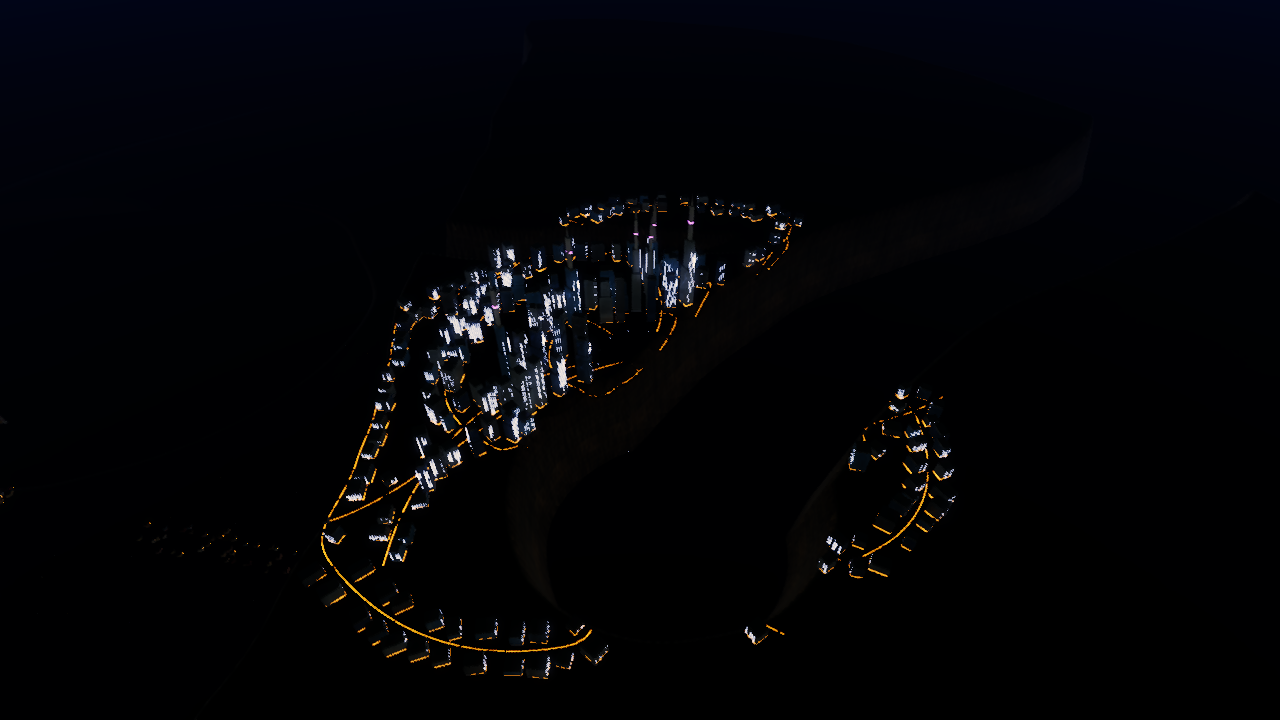
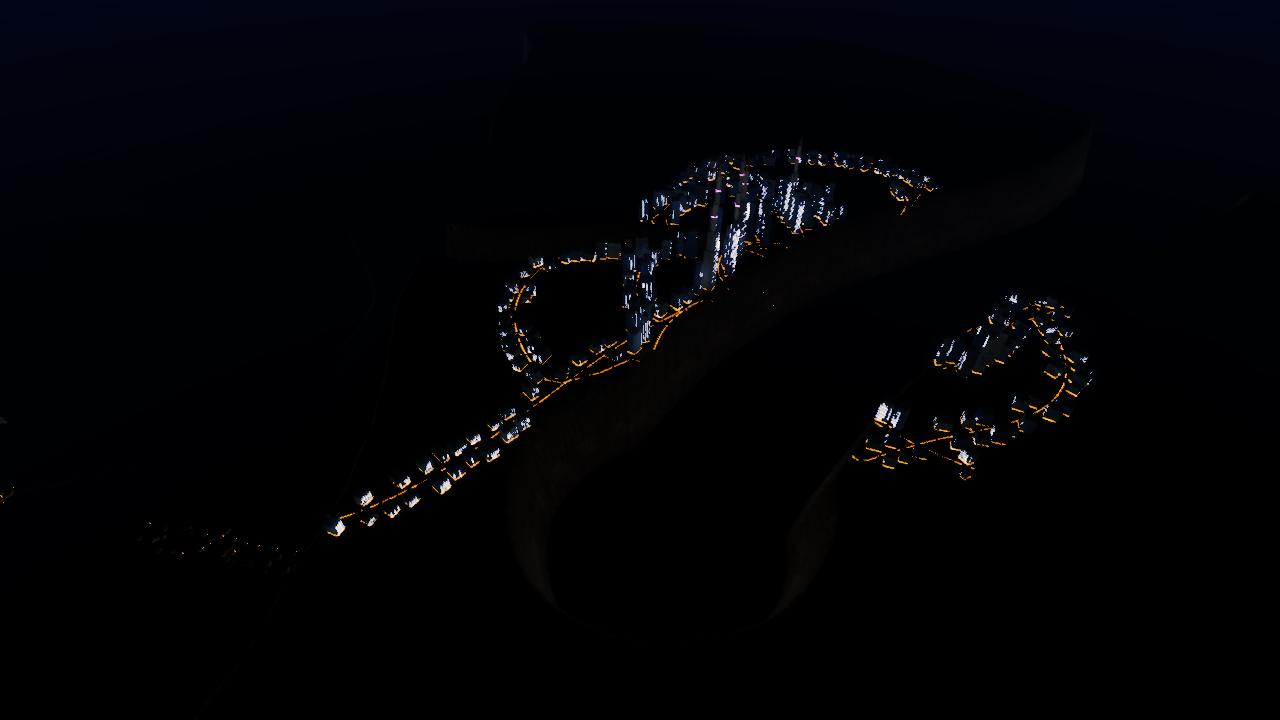
[sibling] F1 P5: camera bookmarks (5=postcard 6=crown 7=fissure 8=approach) + THE POSTCARD capture

diff --git a/app/world_hosts/host_echotropolis.cpp b/app/world_hosts/host_echotropolis.cpp
@@ -696,6 +696,16 @@ int hostEchotropolis(HostContext& hc) {
             if (kd(GLFW_KEY_2)) tod.setDayFraction(kTodDusk);
             if (kd(GLFW_KEY_3)) tod.setDayFraction(kTodNight);
             if (kd(GLFW_KEY_4)) tod.setDayFraction(kTodNoon);
+            // ---- P5 camera bookmarks: the four signature shots (keys 5-8). Set
+            // the orbit TARGETS; the critically-damped springs fly there smoothly.
+            auto bookmark = [&](float fx, float fz, float yw, float pt, float rd) {
+                rig.focusX = fx; rig.focusZ = fz;
+                rig.yaw = yw; rig.pitch = clampPitch(pt); rig.radius = rd;
+            };
+            if (kd(GLFW_KEY_5)) bookmark(-450.0f,  900.0f, -1.02f, 0.31f, 1400.0f); // THE POSTCARD
+            if (kd(GLFW_KEY_6)) bookmark( 412.0f, -106.0f,  3.93f, 0.60f,  950.0f); // crown promenade
+            if (kd(GLFW_KEY_7)) bookmark( 331.0f,  459.0f,  2.40f, 0.35f,  750.0f); // fissure rim
+            if (kd(GLFW_KEY_8)) bookmark(   0.0f,    0.0f,  5.50f, 0.10f, 5600.0f); // sea approach
             if (!todPaused) tod.advance(dt);
             if (tod.phase() != prevPhase) {
                 prevPhase = tod.phase();
